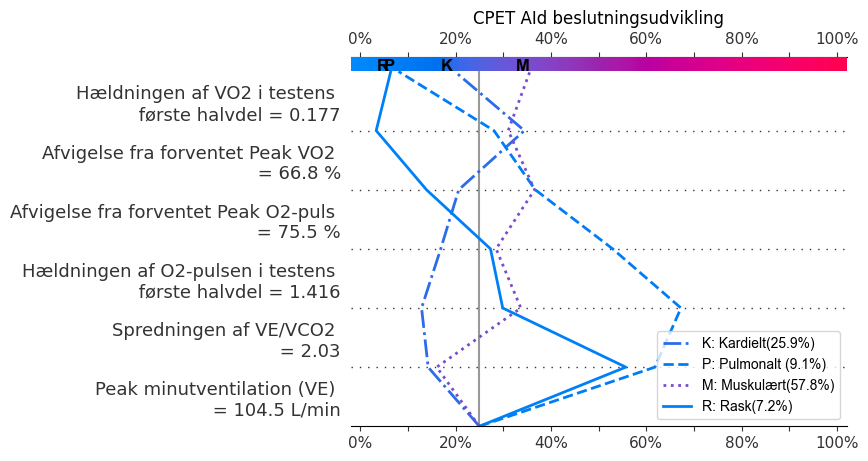
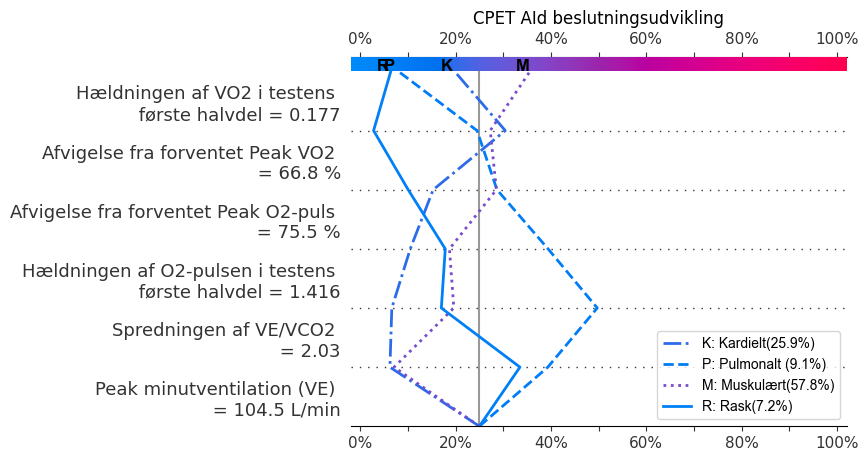
25% start gæt ligger rigtigt nu i plot

diff --git a/CPET-AId/Visualisering.py b/CPET-AId/Visualisering.py
@@ -86,6 +86,8 @@ def decisionplot(Class_proba, feature_names_values, shap_values, base_values):
 
     classification_names = [CardiacLabelname, PulmoLabelname,MuscoLabelname,HealthyLabelname]
 
+    p = 0.25  # Probability 0.4
+    new_base_value = np.log(p / (1 - p))  # the logit function
     shap.multioutput_decision_plot(
         base_values,
         shap_values,
@@ -100,7 +102,7 @@ def decisionplot(Class_proba, feature_names_values, shap_values, base_values):
         feature_order = [1, 3, 2, 4, 0, 5],
         title = "CPET AId beslutningsudvikling",
         auto_size_plot= False,
-        # new_base_value = global_base_values
+        new_base_value = new_base_value,
         link="logit"
     )
     # fjern label
@@ -119,10 +121,10 @@ def decisionplot(Class_proba, feature_names_values, shap_values, base_values):
     #Sætter standard gæt til at være ved 25%
     BaseValueLine = ax.lines[0] #Grå lodret basevalue linje 
     BaseValueLineX = BaseValueLine.get_xdata()
-    BaseValueLineX[0] = 0.25
-    BaseValueLineX[-1] = 0.25
+    # BaseValueLineX[0] = 0.25
+    # BaseValueLineX[-1] = 0.25
 
-    BaseValueLine.set_xdata(BaseValueLineX)
+    # BaseValueLine.set_xdata(BaseValueLineX)
 
 
     # BaseValueLine.set_visible(False) #Indkommenter hvis standardgæt linjen skal slettes.
@@ -220,18 +222,18 @@ def decisionplot(Class_proba, feature_names_values, shap_values, base_values):
     )
 
 
-    #Sætter alles startpunkt til at være ved 25%
-    CardiacX[0] = 0.25
-    CardiacLine.set_xdata(CardiacX)
+    # #Sætter alles startpunkt til at være ved 25%
+    # CardiacX[0] = 0.25
+    # CardiacLine.set_xdata(CardiacX)
     
-    PulmoX[0] = 0.25
-    PulmoLine.set_xdata(PulmoX)
+    # PulmoX[0] = 0.25
+    # PulmoLine.set_xdata(PulmoX)
     
-    MuscoX[0] = 0.25
-    MuscoLine.set_xdata(MuscoX)
+    # MuscoX[0] = 0.25
+    # MuscoLine.set_xdata(MuscoX)
     
-    HealthyX[0] = 0.25
-    HealthyLine.set_xdata(HealthyX)
+    # HealthyX[0] = 0.25
+    # HealthyLine.set_xdata(HealthyX)
 
 
 